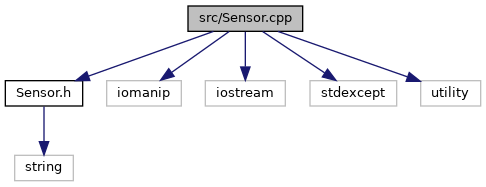
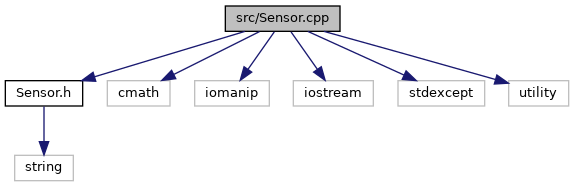
Actualizar validaciones y documentacion del proyecto

diff --git a/docs/html/Sensor_8h_source.html b/docs/html/Sensor_8h_source.html
@@ -108,21 +108,21 @@ $(function() {
 <div class="line"><a name="l00062"></a><span class="lineno">   62</span>&#160; </div>
 <div class="line"><a name="l00063"></a><span class="lineno">   63</span>&#160;<span class="preprocessor">#endif</span></div>
 <div class="ttc" id="aclassSensor_html"><div class="ttname"><a href="classSensor.html">Sensor</a></div><div class="ttdoc">Representa un sensor de medicion.</div><div class="ttdef"><b>Definition:</b> Sensor.h:12</div></div>
-<div class="ttc" id="aclassSensor_html_a1beccbb600c6618b6ccd503091e06738"><div class="ttname"><a href="classSensor.html#a1beccbb600c6618b6ccd503091e06738">Sensor::desactivar</a></div><div class="ttdeci">void desactivar()</div><div class="ttdoc">Desactiva el sensor.</div><div class="ttdef"><b>Definition:</b> Sensor.cpp:56</div></div>
+<div class="ttc" id="aclassSensor_html_a1beccbb600c6618b6ccd503091e06738"><div class="ttname"><a href="classSensor.html#a1beccbb600c6618b6ccd503091e06738">Sensor::desactivar</a></div><div class="ttdeci">void desactivar()</div><div class="ttdoc">Desactiva el sensor.</div><div class="ttdef"><b>Definition:</b> Sensor.cpp:66</div></div>
 <div class="ttc" id="aclassSensor_html_a234572fa1d52f50a2a3fe349022bd9bd"><div class="ttname"><a href="classSensor.html#a234572fa1d52f50a2a3fe349022bd9bd">Sensor::id</a></div><div class="ttdeci">int id</div><div class="ttdef"><b>Definition:</b> Sensor.h:14</div></div>
-<div class="ttc" id="aclassSensor_html_a2f57593dc57b88e0667907e282b4e2ef"><div class="ttname"><a href="classSensor.html#a2f57593dc57b88e0667907e282b4e2ef">Sensor::getId</a></div><div class="ttdeci">int getId() const</div><div class="ttdoc">Devuelve el identificador del sensor.</div><div class="ttdef"><b>Definition:</b> Sensor.cpp:23</div></div>
-<div class="ttc" id="aclassSensor_html_a3afbb4b42540a26b3103c27c236803ae"><div class="ttname"><a href="classSensor.html#a3afbb4b42540a26b3103c27c236803ae">Sensor::Sensor</a></div><div class="ttdeci">Sensor(int id, const std::string &amp;nombre, const std::string &amp;tipo, double valor)</div><div class="ttdoc">Construye un sensor.</div><div class="ttdef"><b>Definition:</b> Sensor.cpp:8</div></div>
+<div class="ttc" id="aclassSensor_html_a2f57593dc57b88e0667907e282b4e2ef"><div class="ttname"><a href="classSensor.html#a2f57593dc57b88e0667907e282b4e2ef">Sensor::getId</a></div><div class="ttdeci">int getId() const</div><div class="ttdoc">Devuelve el identificador del sensor.</div><div class="ttdef"><b>Definition:</b> Sensor.cpp:33</div></div>
+<div class="ttc" id="aclassSensor_html_a3afbb4b42540a26b3103c27c236803ae"><div class="ttname"><a href="classSensor.html#a3afbb4b42540a26b3103c27c236803ae">Sensor::Sensor</a></div><div class="ttdeci">Sensor(int id, const std::string &amp;nombre, const std::string &amp;tipo, double valor)</div><div class="ttdoc">Construye un sensor.</div><div class="ttdef"><b>Definition:</b> Sensor.cpp:9</div></div>
 <div class="ttc" id="aclassSensor_html_a3ddc17aaf50c49001de243bcdcbfb2cb"><div class="ttname"><a href="classSensor.html#a3ddc17aaf50c49001de243bcdcbfb2cb">Sensor::valor</a></div><div class="ttdeci">double valor</div><div class="ttdef"><b>Definition:</b> Sensor.h:17</div></div>
 <div class="ttc" id="aclassSensor_html_a4b33332ed4289625dc1ee6e899de6063"><div class="ttname"><a href="classSensor.html#a4b33332ed4289625dc1ee6e899de6063">Sensor::activo</a></div><div class="ttdeci">bool activo</div><div class="ttdef"><b>Definition:</b> Sensor.h:18</div></div>
-<div class="ttc" id="aclassSensor_html_a6b5206a9c6faaed609fad614b02e54e1"><div class="ttname"><a href="classSensor.html#a6b5206a9c6faaed609fad614b02e54e1">Sensor::getNombre</a></div><div class="ttdeci">std::string getNombre() const</div><div class="ttdoc">Devuelve el nombre del sensor.</div><div class="ttdef"><b>Definition:</b> Sensor.cpp:27</div></div>
-<div class="ttc" id="aclassSensor_html_a6df72b34c421093b8cb6c73d90d34785"><div class="ttname"><a href="classSensor.html#a6df72b34c421093b8cb6c73d90d34785">Sensor::mostrarInformacion</a></div><div class="ttdeci">void mostrarInformacion() const</div><div class="ttdoc">Muestra toda la informacion del sensor.</div><div class="ttdef"><b>Definition:</b> Sensor.cpp:60</div></div>
-<div class="ttc" id="aclassSensor_html_a9f75d0e855de1bdbc044ca5cec1fa8c8"><div class="ttname"><a href="classSensor.html#a9f75d0e855de1bdbc044ca5cec1fa8c8">Sensor::activar</a></div><div class="ttdeci">void activar()</div><div class="ttdoc">Activa el sensor.</div><div class="ttdef"><b>Definition:</b> Sensor.cpp:52</div></div>
+<div class="ttc" id="aclassSensor_html_a6b5206a9c6faaed609fad614b02e54e1"><div class="ttname"><a href="classSensor.html#a6b5206a9c6faaed609fad614b02e54e1">Sensor::getNombre</a></div><div class="ttdeci">std::string getNombre() const</div><div class="ttdoc">Devuelve el nombre del sensor.</div><div class="ttdef"><b>Definition:</b> Sensor.cpp:37</div></div>
+<div class="ttc" id="aclassSensor_html_a6df72b34c421093b8cb6c73d90d34785"><div class="ttname"><a href="classSensor.html#a6df72b34c421093b8cb6c73d90d34785">Sensor::mostrarInformacion</a></div><div class="ttdeci">void mostrarInformacion() const</div><div class="ttdoc">Muestra toda la informacion del sensor.</div><div class="ttdef"><b>Definition:</b> Sensor.cpp:70</div></div>
+<div class="ttc" id="aclassSensor_html_a9f75d0e855de1bdbc044ca5cec1fa8c8"><div class="ttname"><a href="classSensor.html#a9f75d0e855de1bdbc044ca5cec1fa8c8">Sensor::activar</a></div><div class="ttdeci">void activar()</div><div class="ttdoc">Activa el sensor.</div><div class="ttdef"><b>Definition:</b> Sensor.cpp:62</div></div>
 <div class="ttc" id="aclassSensor_html_aa3c16e79dc51409abd1f44895b77bec6"><div class="ttname"><a href="classSensor.html#aa3c16e79dc51409abd1f44895b77bec6">Sensor::tipo</a></div><div class="ttdeci">std::string tipo</div><div class="ttdef"><b>Definition:</b> Sensor.h:16</div></div>
 <div class="ttc" id="aclassSensor_html_ab008a07c28c7ff819d23bd2d4907f14b"><div class="ttname"><a href="classSensor.html#ab008a07c28c7ff819d23bd2d4907f14b">Sensor::nombre</a></div><div class="ttdeci">std::string nombre</div><div class="ttdef"><b>Definition:</b> Sensor.h:15</div></div>
-<div class="ttc" id="aclassSensor_html_ab6f20344d69c9d19ca4c26be8aa471a1"><div class="ttname"><a href="classSensor.html#ab6f20344d69c9d19ca4c26be8aa471a1">Sensor::actualizarMedicion</a></div><div class="ttdeci">bool actualizarMedicion(double nuevoValor)</div><div class="ttdoc">Actualiza la medicion del sensor.</div><div class="ttdef"><b>Definition:</b> Sensor.cpp:43</div></div>
-<div class="ttc" id="aclassSensor_html_ac62deb02ec1048adfdd90e2d94f96082"><div class="ttname"><a href="classSensor.html#ac62deb02ec1048adfdd90e2d94f96082">Sensor::getTipo</a></div><div class="ttdeci">std::string getTipo() const</div><div class="ttdoc">Devuelve el tipo de sensor.</div><div class="ttdef"><b>Definition:</b> Sensor.cpp:31</div></div>
-<div class="ttc" id="aclassSensor_html_ad82fd2d8ce1c92e342fc4437bf55cb5f"><div class="ttname"><a href="classSensor.html#ad82fd2d8ce1c92e342fc4437bf55cb5f">Sensor::estaActivo</a></div><div class="ttdeci">bool estaActivo() const</div><div class="ttdoc">Indica si el sensor esta activo.</div><div class="ttdef"><b>Definition:</b> Sensor.cpp:39</div></div>
-<div class="ttc" id="aclassSensor_html_aef60a8fff3c8bec2c61d09961a2e2f1f"><div class="ttname"><a href="classSensor.html#aef60a8fff3c8bec2c61d09961a2e2f1f">Sensor::getValor</a></div><div class="ttdeci">double getValor() const</div><div class="ttdoc">Devuelve la ultima medicion.</div><div class="ttdef"><b>Definition:</b> Sensor.cpp:35</div></div>
+<div class="ttc" id="aclassSensor_html_ab6f20344d69c9d19ca4c26be8aa471a1"><div class="ttname"><a href="classSensor.html#ab6f20344d69c9d19ca4c26be8aa471a1">Sensor::actualizarMedicion</a></div><div class="ttdeci">bool actualizarMedicion(double nuevoValor)</div><div class="ttdoc">Actualiza la medicion del sensor.</div><div class="ttdef"><b>Definition:</b> Sensor.cpp:53</div></div>
+<div class="ttc" id="aclassSensor_html_ac62deb02ec1048adfdd90e2d94f96082"><div class="ttname"><a href="classSensor.html#ac62deb02ec1048adfdd90e2d94f96082">Sensor::getTipo</a></div><div class="ttdeci">std::string getTipo() const</div><div class="ttdoc">Devuelve el tipo de sensor.</div><div class="ttdef"><b>Definition:</b> Sensor.cpp:41</div></div>
+<div class="ttc" id="aclassSensor_html_ad82fd2d8ce1c92e342fc4437bf55cb5f"><div class="ttname"><a href="classSensor.html#ad82fd2d8ce1c92e342fc4437bf55cb5f">Sensor::estaActivo</a></div><div class="ttdeci">bool estaActivo() const</div><div class="ttdoc">Indica si el sensor esta activo.</div><div class="ttdef"><b>Definition:</b> Sensor.cpp:49</div></div>
+<div class="ttc" id="aclassSensor_html_aef60a8fff3c8bec2c61d09961a2e2f1f"><div class="ttname"><a href="classSensor.html#aef60a8fff3c8bec2c61d09961a2e2f1f">Sensor::getValor</a></div><div class="ttdeci">double getValor() const</div><div class="ttdoc">Devuelve la ultima medicion.</div><div class="ttdef"><b>Definition:</b> Sensor.cpp:45</div></div>
 </div><!-- fragment --></div><!-- contents -->
 <!-- start footer part -->
 <hr class="footer"/><address class="footer"><small>

diff --git a/docs/html/Sensor_8cpp.html b/docs/html/Sensor_8cpp.html
@@ -71,6 +71,7 @@ $(function() {
 </div><!--header-->
 <div class="contents">
 <div class="textblock"><code>#include &quot;<a class="el" href="Sensor_8h_source.html">Sensor.h</a>&quot;</code><br />
+<code>#include &lt;cmath&gt;</code><br />
 <code>#include &lt;iomanip&gt;</code><br />
 <code>#include &lt;iostream&gt;</code><br />
 <code>#include &lt;stdexcept&gt;</code><br />
@@ -80,12 +81,13 @@ Include dependency graph for Sensor.cpp:</div>
 <div class="dyncontent">
 <div class="center"><img src="Sensor_8cpp__incl.png" border="0" usemap="#asrc_2Sensor_8cpp" alt=""/></div>
 <map name="asrc_2Sensor_8cpp" id="asrc_2Sensor_8cpp">
-<area shape="rect" title=" " alt="" coords="188,5,303,32"/>
+<area shape="rect" title=" " alt="" coords="225,5,340,32"/>
 <area shape="rect" href="Sensor_8h.html" title=" " alt="" coords="5,80,83,107"/>
-<area shape="rect" title=" " alt="" coords="107,80,181,107"/>
-<area shape="rect" title=" " alt="" coords="205,80,285,107"/>
-<area shape="rect" title=" " alt="" coords="310,80,397,107"/>
-<area shape="rect" title=" " alt="" coords="421,80,481,107"/>
+<area shape="rect" title=" " alt="" coords="107,80,170,107"/>
+<area shape="rect" title=" " alt="" coords="195,80,269,107"/>
+<area shape="rect" title=" " alt="" coords="293,80,373,107"/>
+<area shape="rect" title=" " alt="" coords="398,80,485,107"/>
+<area shape="rect" title=" " alt="" coords="509,80,569,107"/>
 <area shape="rect" title=" " alt="" coords="15,155,73,181"/>
 </map>
 </div>

diff --git a/src/Sensor.cpp b/src/Sensor.cpp
@@ -1,5 +1,6 @@
 #include "Sensor.h"
 
+#include <cmath>
 #include <iomanip>
 #include <iostream>
 #include <stdexcept>
@@ -9,13 +10,22 @@ Sensor::Sensor(int id, const std::string& nombre,
 const std::string& tipo, double valor)
 : id(id), nombre(nombre), tipo(tipo),
 valor(valor), activo(true) {
+
 if (id <= 0) {
-throw std::invalid_argument("El ID debe ser positivo.");
+throw std::invalid_argument(
+"El ID debe ser positivo."
+);
 }
 
 if (nombre.empty() || tipo.empty()) {
 throw std::invalid_argument(
 "El nombre y el tipo no pueden estar vacios."
+);
+}
+
+if (!std::isfinite(valor)) {
+throw std::invalid_argument(
+"La medicion inicial debe ser un numero finito."
 );
 }
 }
@@ -41,7 +51,7 @@ return activo;
 }
 
 bool Sensor::actualizarMedicion(double nuevoValor) {
-if (!activo) {
+if (!activo || !std::isfinite(nuevoValor)) {
 return false;
 }
 
@@ -67,3 +77,5 @@ std::cout << "Estado: "
 << (activo ? "Activo" : "Inactivo") << '\n';
 std::cout << "-------------------------\n";
 }
+
+
